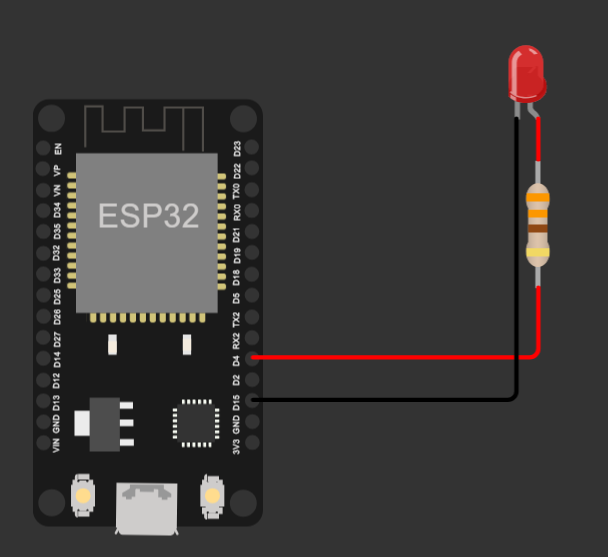
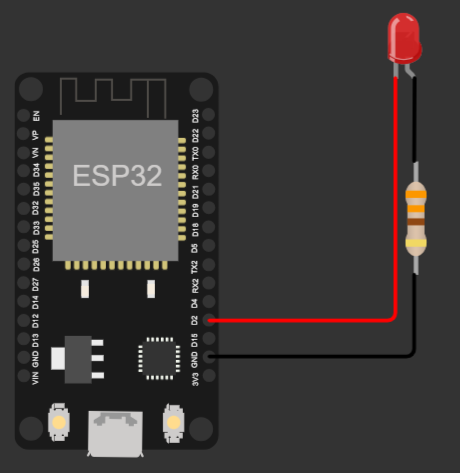
corrección errores

Changed region(s): [[0.0304, 0.0296, 0.9435, 0.9767]]

diff --git a/Unidad_1/1.10_Practica2.md b/Unidad_1/1.10_Practica2.md
@@ -1,0 +1,194 @@
+# **1.10.1. Algoritmos y ejercicios Práctica 2**
+
+## **Objetivo**
+
+Introducir al estudiante en el uso de la placa de desarrollo basada en ESP32, a través de la implementación de programas básicos.
+
+## **Materiales**
+
+***Hardware***
+
+- 1 Computador.
+- 1 Placa de desarrollo basada en ESP32 (cualquiera que tenga a disposición).
+- 1 Cable de programación.
+- 1 Protoboard.
+- 4 LED's.
+- 4 Resistencias de 220 Ohms.
+
+
+***Software***
+
+- IDE *Visual Studio Code (VSCode)*, 
+- Extensión de VSCode *PlatformIO*. A través de esta extensión tiene acceso a:
+	- Framework ESP-IDF que esencialmente contiene la API (bibliotecas de software y código fuente) para la ESP32 y scripts para operar la *Toolchain* para compilar código.
+	- Herramientas de compilación para crear una aplicación completa para ESP32.
+		- CMake, and 
+		- Ninja.
+
+Para realizar una instalación limpia de este software, por favor vlla a la [Guía de instalación](1.9_guia_instal_tools.md).
+
+## **Introducción**
+
+
+
+### **Ejercicio 1**
+
+Por favor siga la siguiente metodología.
+
+1. Inicie el programa VSCode y cree un nuevo proyecto con la herramienta platformIO siguiendo los pasos de la sección [Crear un nuevo proyecto con platformIO](/Unidad_1/0_nuevo_proyecto.md).
+	
+2. Cuando se haya creado el proyecto, despliegue la carpeta "src", donde está el archivo "main.c" que es el archivo principal del proyecto. En este archivo se escribirá el programa. 
+
+3. Escriba el siguiente código dentro del archivo "main.c", cuyo objetivo es simple: encender un led cuando se presiona un botón.
+
+	~~~
+	// Llama a la librería GPIO
+	#include "driver/gpio.h" 		
+	
+	// Crea una macro para indicar el pin donde se conectará el botón
+	#define BUTTON 4
+	
+	// Crea una macro para indicar el pin donde se conectará el botón
+	#define LED 2
+	
+	// Función principal. En esto difiere de un programa en C propiamente dicho.
+	void app_main(void)
+	{
+		// Configuración de los pines
+		gpio_reset_pin(BUTTON);  // Reiniciar el pin del botón (GPIO4) para que esté en su estado predeterminado 
+		
+		// Configura el pin del botón (GPIO4) como entrada
+		gpio_set_direction(BUTTON, GPIO_MODE_INPUT);
+		
+		gpio_reset_pin(LED);     // Reiniciar el pin del LED (GPIO2) para que esté en su estado predeterminado  
+		
+		// Configura el pin del LED (GPIO2) como salida
+		gpio_set_direction(LED, GPIO_MODE_OUTPUT);
+		
+		// Bucle infinito que permite que el programa se ejecute indefinidamente.
+		while(1){
+			// Lee el estado del botón y actualizar el estado del LED
+			gpio_set_level(LED, gpio_get_level(BUTTON));
+		}
+	}
+
+	~~~
+
+4. La configuración del hardware que usted debe tener es la siguiente:
+	
+	<img src="imagenes/10.1.1_practica_1_button_led.png" width=500>
+	
+	*Diagrama realizado con Wokwi [[3]](#referencias).*
+
+	Tenga en cuenta que si tiene otra distribución de pines, las líneas de código correspondientes a las macros para para la designación de los pines deberían coincidir con el número del pin correspondiente:
+	
+	~~~
+	#define BUTTON 4
+	#define LED 2
+	~~~
+
+5. En la parte inferior de Visual Studio Code hay una serie de botones, se describen los más relevantes:
+
+	<img src="imagenes/1.10_barra_inferior_platformIO.png" width=500>
+
+	*Barra de herramientas de PlatformIO.*
+
+	1. *"Build"*. Compilar el proyecto.
+	1. *"Upload"*. Cargar el proyecto a la placa.
+	1. *"Serial monitor"*. Abrir un monitor serial.
+
+
+6. Compile el proyecto usando el botón *"Build"*. La primera vez puede ser demorado ya que crea todos los archivos del proyecto. Si todo es correcto, se obtiene un mensaje similar al siguiente:
+
+	<img src="imagenes/1.10_pront_build_programa.png" width=500>
+	
+7. Luego dar clic en *"Upload"* para subir el programa a la placa Si todo es correcto, se obtiene un mensaje similar al siguiente:
+
+	<img src="imagenes/1.10_pront_carga_programa.png" width=500>
+
+8. Cuando presione el botón, el led debería encender. Si lo libera, el led se apagará. Cuando termine, guarde el programa. 
+	
+	
+### **Ejercicio 2**
+
+1. Cree un nuevo proyecto con la herramienta PlatformIO como se vio antes. [Si tiene dudas consulte aquí](/Unidad_1/0_nuevo_proyecto.md).
+	
+2. Cuando se haya creado el proyecto, despliegue la carpeta "src", donde está el archivo "main.c" que es el archivo principal del proyecto. En este archivo se escribirá el programa. 
+
+3. Escriba el siguiente código dentro del archivo "main.c", cuyo objetivo es: hacer que un LED realice un parpadeo.
+	
+
+	~~~
+	// Incluir librería del sistema operativo FreeRTOS
+	#include "freertos/FreeRTOS.h" 
+	  
+	// Incluir librería para manejo de tareas del FreeRTOS
+	#include "freertos/task.h" 
+
+	// Incluir librería de control de pines GPIO del ESP-IDF
+	#include "driver/gpio.h"                        
+
+	// Crea macro con el número del pin del LED que se utilizará
+	#define LED  2
+	 
+	// Crea una macro que indica el tiempo de espera (WAIT)                            
+	#define WAIT 1000                               
+
+	// Función principal del programa
+	void app_main(void)                             
+	{
+		// Reiniciar el pin LED para que esté en su estado predeterminado
+		gpio_reset_pin(LED);                        
+		gpio_set_direction(LED, GPIO_MODE_OUTPUT);  // Configurar el pin LED como salida
+
+		// Bucle infinito que permite que el programa se ejecute indefinidamente.
+		while(1){                                   
+			gpio_set_level(LED, 0);                 // Apagar el LED
+			vTaskDelay( WAIT / portTICK_PERIOD_MS); // Esperar N milisegundos
+			gpio_set_level(LED, 1);                 // Enciende el LED
+			vTaskDelay( WAIT / portTICK_PERIOD_MS); // Esperar N milisegundos
+		}
+	}
+	~~~
+
+4. La configuración del hardware que usted debe tener es la siguiente:
+	
+	<img src="imagenes/10.1.1_practica_1_blink.png" width=500>
+	
+	*Diagrama realizado con Wokwi [[3]](#referencias).*
+
+	Tenga en cuenta que si tiene otra distribución de pines, las líneas de código correspondientes a las macros para para la designación de los pines deberían coincidir con el número del pin correspondiente:
+	
+	~~~
+	#define LED 2
+	~~~
+	
+5. Siga los pasos 5. a 8. del ejercicio 1.
+
+## **Práctica**
+
+### **P1. Ejercicios varios**
+
+1. Se tiene un nibble representado por 4 LEDs y un pulsador conectados a un uC.
+Cuando la entrada conectada al pulsador está en 1, se deben encender todos los LEDs.
+Cuando la entrada conectada al pulsador está en 0, se deben encender los dos MSB.
+
+2. Detectar un pulso digital de un pulsador (P1) que cambie el ciclo de encendido/apagado de tres LEDs (L1, L2, L3). Las secuencia es la siguiente:
+	- Encender L1, demorar un tiempo encendido, luego apagar L1.
+	- Encender L2, demorar un tiempo encendido, luego apagar L2.
+	- Encender L3, demorar un tiempo encendido, luego apagar L3. -
+	- Al apagar L3, se debe reiniciar la secuencia al encender L1.
+	- Cuando P1 esté presionado, la secuencia se debe invertir.
+
+3. Se debe contar las veces que un pulsador P1 se presiona. La salida deben ser un número BCD representado por 4 LEDs.
+
+### **P2. Pensamiento matemático**
+
+1. Se puede calcular el cuadrado de un número N al sumar los N primeros números impares, así 7 al cuadrado es igual a 1+3+5+7+9+11+13 = 49, donde la serie del 1 al 13 son los primeros 7 números impares. Describir una solución para el microcontrolador que calcule el cuadrado de un número de 2 bits en la entrada usando el algoritmo descrito anteriormente. Note que el cuadrado de un número de 2 bits es en general de 4 bits.
+
+
+# Referencias
+
+- [1] ESPRESSIF.  https://docs.espressif.com/projects/esp-idf/en/latest/esp32/api-reference/peripherals/gpio.html
+- [2] ESPRESSIF. https://docs.espressif.com/projects/esp-idf/en/latest/esp32/
+- [3] Wokwi. https://wokwi.com/esp32

diff --git a/Unidad_1/1.9_guia_instal_tools.md b/Unidad_1/1.9_guia_instal_tools.md
@@ -12,6 +12,21 @@
     - [Instalar VSCode en Linux (Ubuntu)](https://www.youtube.com/watch?v=ROXcgWe3Fsc)
     - [Instalar VSCode en MAC](https://www.youtube.com/watch?v=Z4lTITfq3-0)
 
+## Instalación de driver CP210X (VSCode)
+
+Requerido para la comunicación serial entre el ESP32 y el computador.
+
+1. Vaya a la página oficial del [driver CP210X](https://www.silabs.com/developers/usb-to-uart-bridge-vcp-drivers?tab=downloads).
+1. Descargue el driver para su sistema operativo:
+	![CP210X Downloads](imagenes/1.9_driver_CP210X.png)
+1. **Instalación para windows**: 
+	1. Descomprima la carpeta descargada:
+		![CP210X Downloads](imagenes/1.9_driver_CP210X_2.png)
+	1. Usando el Explorador de archivos de Windows, ubique la carpeta del controlador.
+	1. Determina si tienes Windows de 32 o 64 bits
+	1. Haga doble clic para ejecutar el archivo .exe llamado CP210xVCPInstaller_xnn.exe (donde xnn es x64 para 64 bits y x86 es para 32 bits)
+	1. Sigue las instrucciones
+
 ## Instalación y configuración de PlatformIO
 
 1. Para instalar PlatformIO es necesario haber instalado Visual Studio Code.

diff --git a/Unidad_1/1.10_Practica1.md b/Unidad_1/1.10_Practica1.md
@@ -12,8 +12,8 @@ Introducir al estudiante en el uso de la placa de desarrollo basada en ESP32, a 
 - 1 Placa de desarrollo basada en ESP32 (cualquiera que tenga a disposición).
 - 1 Cable de programación.
 - 1 Protoboard.
-- 3 LED's.
-- 3 Resistencias de 220 Ohms.
+- 4 LED's.
+- 4 Resistencias de 220 Ohms.
 
 
 ***Software***
